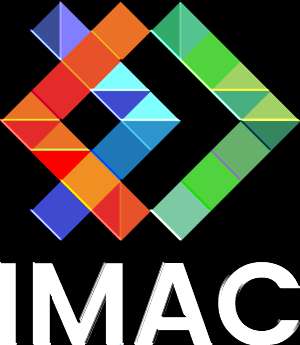
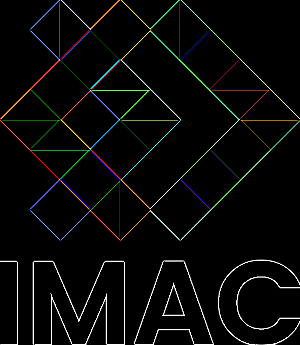
exo 24 outline ok

diff --git a/src/main.cpp b/src/main.cpp
@@ -743,19 +743,26 @@ void exo24_boxBlur(sil::Image &image)
 
 void exo24_emboss(sil::Image &image)
 {
-    /*
-    int size = 18; // ou 10
-    float v = 1.f / (size * size);
-    vector<vector<float>> matrice(size, vector<float>(size, v));
-    */
+    // CONVOLUTION : EMBOSS
     vector<vector<float>> matrice = {
         {-1, -1, 1},
         {-1, 1, 1},
         {0, 1, 0}
     };
-    exo24(image,1 matrice);
+    exo24(image, matrice);
 }
 
+void exo24_outline(sil::Image &image)
+{
+    // CONVOLUTION : OUTLINE
+    float contraste = 2; // saturation, plus c'est élevé, plus c'est clair
+    vector<vector<float>> matrice = {
+        {0, 1*contraste, 0},
+        {1*contraste, -4*contraste, 1*contraste},
+        {0, 1*contraste, 0}
+    };
+    exo24(image, matrice);
+}
 
 int main()
 {
@@ -765,7 +772,7 @@ int main()
     // sil::Image image{500/*width*/, 500/*height*/};
     // TODO: modifier l'image
 
-    exo24_emboss(image);
+    exo24_outline(image);
 
     image.save("output/pouet.png");
 
